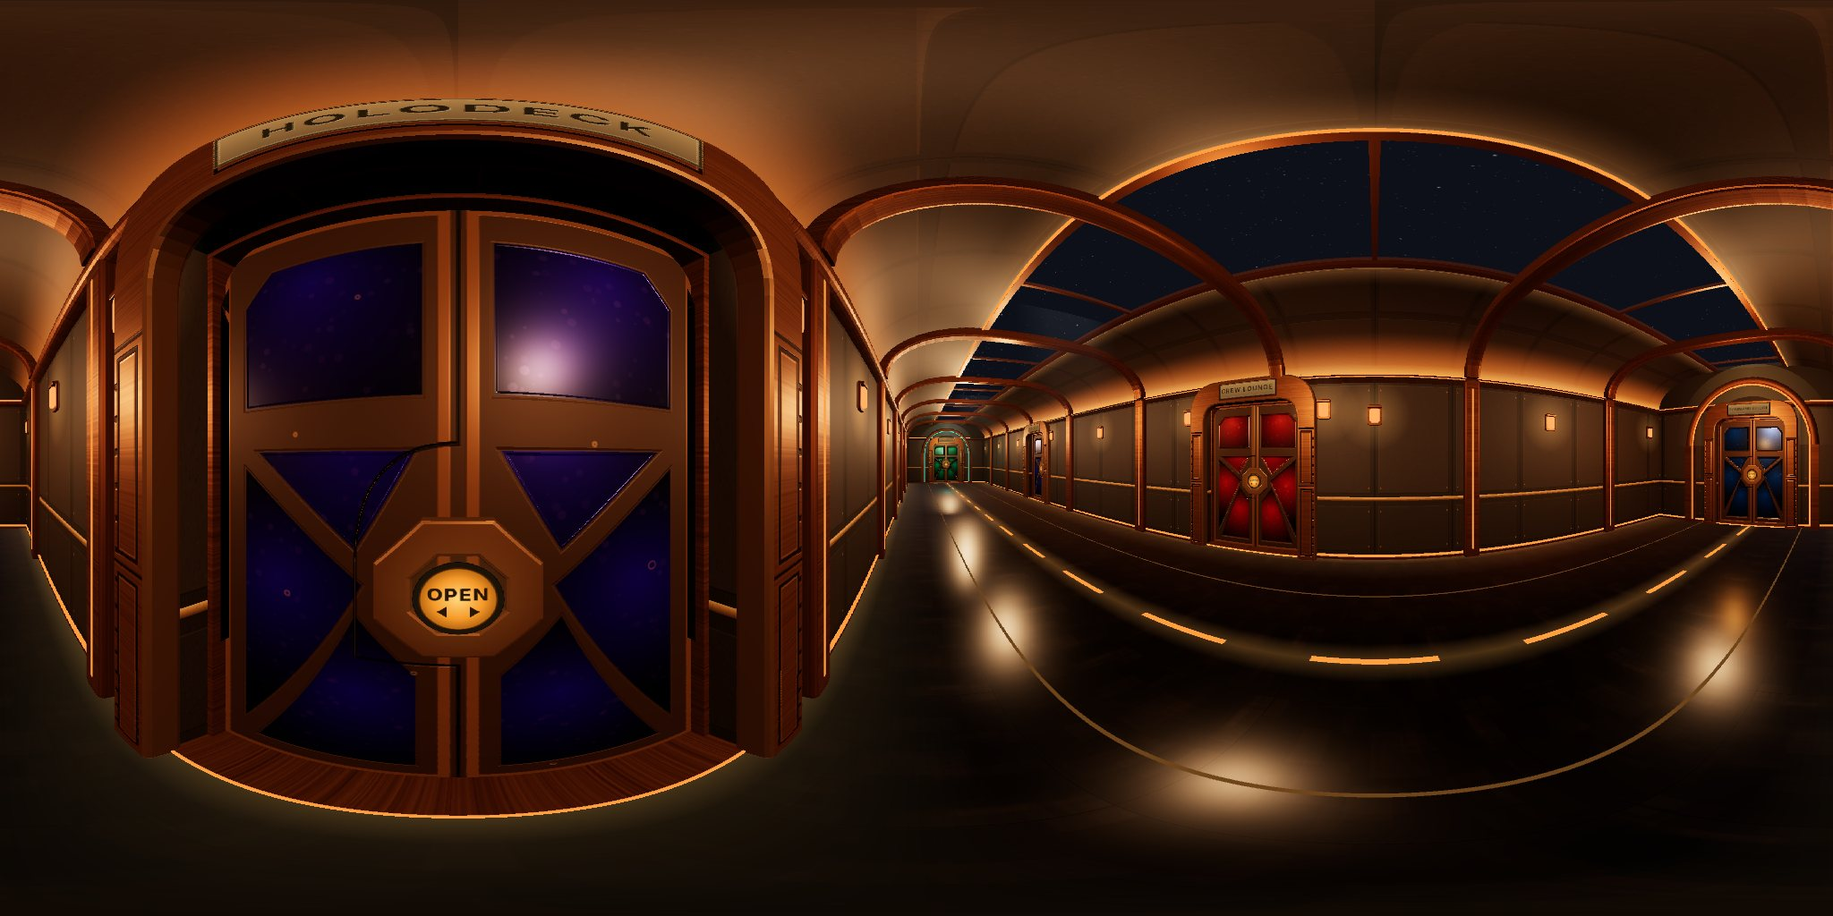
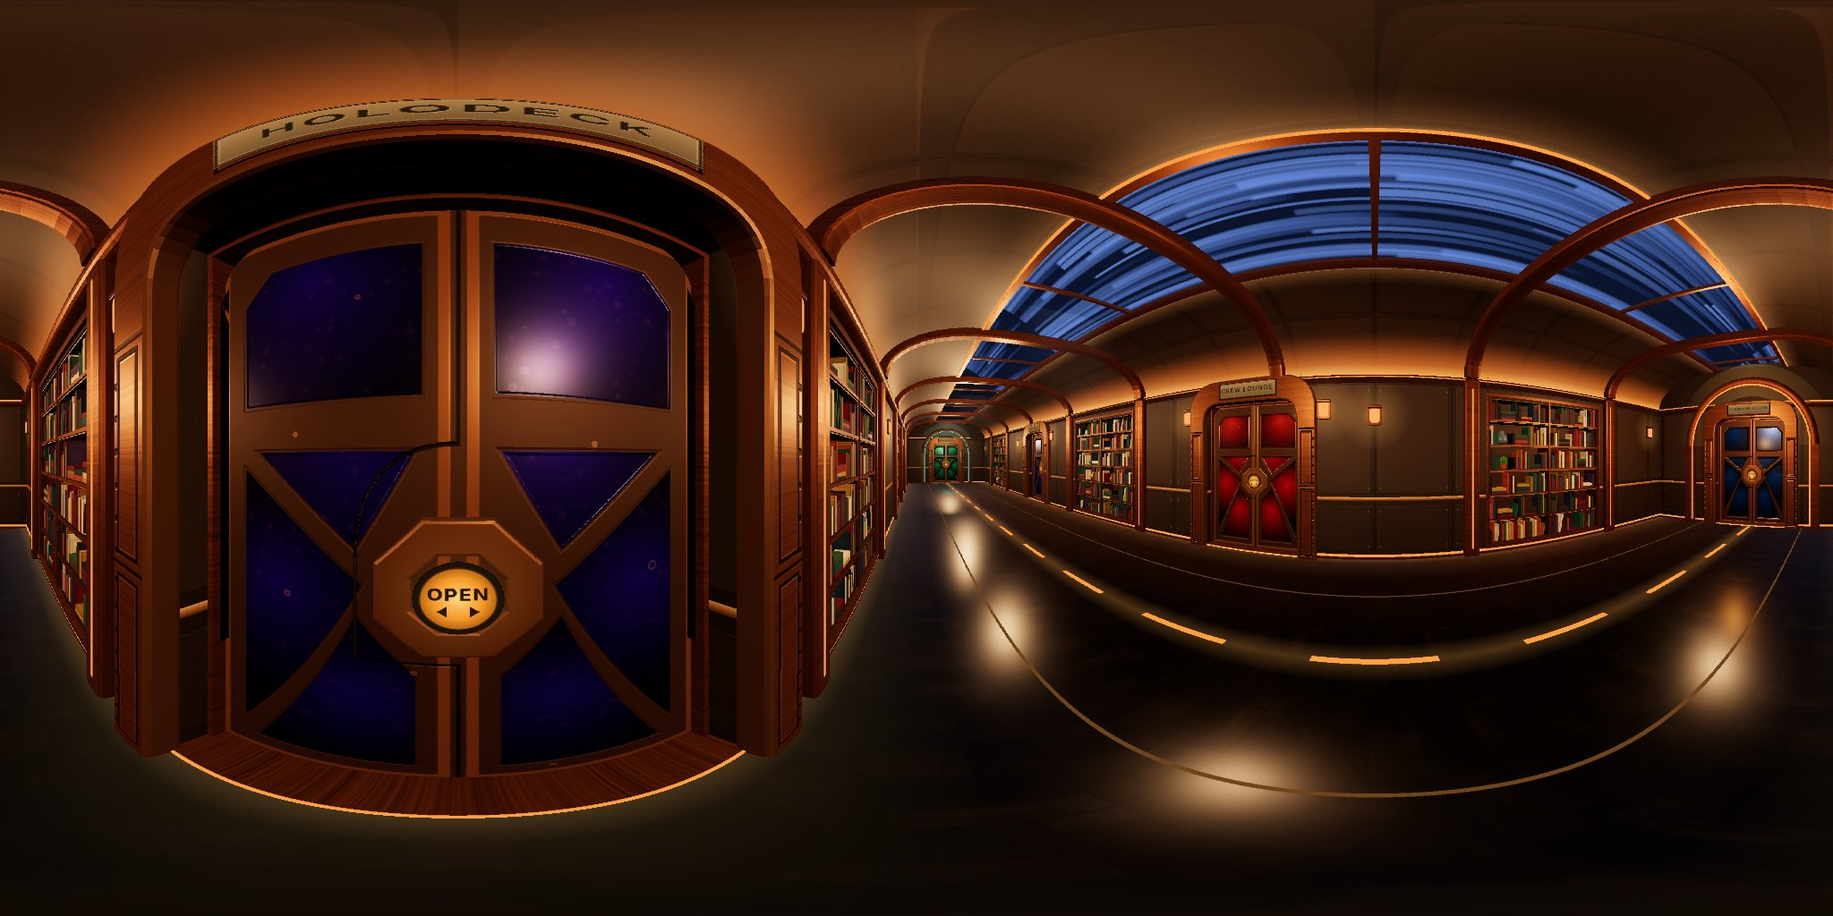
Corridor: light-speed streaks through the skylight; seven recessed lit bookcases full of books
Claude-Session: https://claude.ai/code/session_015swmRW9rk9HZt8JyLRwsXT

diff --git a/index.html b/index.html
@@ -144,6 +144,11 @@
     var ALONG = { L: -1, R: 1, F: -1, B: 1 };               // door-group local +x expressed along world z (side walls) / x (end walls)
     var DEFAULT_SPAWN = { x: 0, z: 9, yaw: 0 };         // Home Screen launch: the usual view down the hall
 
+    // built-in bookshelves, recessed into the wall between ribs (user, Nov 24: reference was a hallway with inset shelves)
+    var SHELVES = [{ W: 'L', c: -9 }, { W: 'L', c: -3 }, { W: 'L', c: 3 }, { W: 'L', c: 9 }, { W: 'R', c: -9 }, { W: 'R', c: 0 }, { W: 'R', c: 9 }];
+    var SH_W = 2.4, SH_Y0 = 0.14, SH_Y1 = 2.62, SH_D = 0.38;
+    function shelfAt(Wk, z, pad) { return SHELVES.some(function (q) { return q.W === Wk && Math.abs(z - q.c) < SH_W / 2 + pad; }); }
+
     // stretches of each side wall that a door, its button or its frame occupies: ribs and sconces keep clear
     function busy(Wk, z, pad) {
       return DOORS.some(function (d) {
@@ -231,7 +236,7 @@
     }
 
     // ───────────────────────────── geometry collector (world-aligned boxes, world-space UVs) ─────────────────────────────
-    var TILE = { wall: [1.2, H], trim: [1, 1], dark: [1, 1], amber: [1, 1], lamp: [1, 1] };
+    var TILE = { wall: [1.2, H], trim: [1, 1], dark: [1, 1], amber: [1, 1], lamp: [1, 1], wood: [1, 1] };
     var buckets = {};
     function bx(key, cx, cy, cz, w, h, d) {
       var g = new THREE.BoxGeometry(w, h, d); g.translate(cx, cy, cz);
@@ -267,12 +272,98 @@
       ops.forEach(function (o) {
         var a0 = o.c - o.w / 2, a1 = o.c + o.w / 2;
         if (a0 > cur) solid(cur, a0);
-        wb('wall', W, 0, T, DOOR_H, H, a0, a1);
+        if (o.type === 'shelf') {
+          wb('wall', W, 0, T, SH_Y1, H, a0, a1); wb('wall', W, 0, T, 0, SH_Y0, a0, a1);
+          wb('amber', W, -0.025, 0.03, 0.05, 0.085, a0, a1); wb('trim', W, -0.02, 0.03, 0, 0.05, a0, a1);
+          shelfUnit(Wk, W, a0, a1);
+        } else wb('wall', W, 0, T, DOOR_H, H, a0, a1);
         cur = a1;
       });
       if (hi > cur) solid(cur, hi);
       wb('amber', W, -0.06, 0.06, 2.86, 2.9, lo, hi);                      // cove light line on top of the ledge
     }
+    // ── a recessed bookcase: walnut carcass, bronze lip, two columns × six shelves, amber strip under every shelf ──
+    var books = [], bookCol = [], decor = [];
+    var BOOK_COLS = ['#6b1e1e', '#7a2a1a', '#1f3350', '#24405e', '#2d4a2f', '#3c5a36', '#b08a3e', '#8c6a2a', '#e2d6bc', '#cbbd9a', '#1c1c1e', '#3a2a22', '#1f5a5a', '#5a2e4a', '#9a4a24', '#4a3a6a'];
+    function shelfUnit(Wk, W, a0, a1) {
+      var r = rng(Math.round((a0 + 20) * 97) + (Wk === 'L' ? 1 : 7)), mid = (a0 + a1) / 2, rows = 6, pitch = (SH_Y1 - SH_Y0) / rows;
+      wb('wood', W, SH_D, T - SH_D, SH_Y0, SH_Y1, a0, a1);                                  // back panel
+      wb('wood', W, 0, SH_D, SH_Y0, SH_Y1, a0, a0 + 0.025); wb('wood', W, 0, SH_D, SH_Y0, SH_Y1, a1 - 0.025, a1);   // sides
+      wb('wood', W, 0, SH_D, SH_Y1 - 0.03, SH_Y1, a0, a1);                                   // top
+      wb('wood', W, 0.01, SH_D - 0.01, SH_Y0, SH_Y1, mid - 0.016, mid + 0.016);             // centre upright
+      wb('trim', W, -0.035, 0.045, SH_Y0 - 0.05, SH_Y0, a0 - 0.05, a1 + 0.05); wb('trim', W, -0.035, 0.045, SH_Y1, SH_Y1 + 0.05, a0 - 0.05, a1 + 0.05);   // bronze lip
+      wb('trim', W, -0.035, 0.045, SH_Y0 - 0.05, SH_Y1 + 0.05, a0 - 0.05, a0); wb('trim', W, -0.035, 0.045, SH_Y0 - 0.05, SH_Y1 + 0.05, a1, a1 + 0.05);
+      wb('trim', W, -0.012, 0.012, SH_Y0, SH_Y1, mid - 0.02, mid + 0.02);
+      for (var k = 0; k < rows; k++) {
+        var y = SH_Y0 + k * pitch;
+        wb('wood', W, 0.005, SH_D - 0.005, y, y + 0.03, a0, a1);                              // shelf board
+        wb('trim', W, -0.004, 0.01, y, y + 0.03, a0 + 0.025, a1 - 0.025);                     // brass nosing
+        if (k > 0) wb('amber', W, 0.012, 0.006, y - 0.008, y - 0.003, a0 + 0.04, a1 - 0.04);  // strip light under the shelf above
+        [[a0 + 0.035, mid - 0.025], [mid + 0.025, a1 - 0.035]].forEach(function (seg) { fillRow(Wk, seg[0], seg[1], y + 0.03, pitch - 0.05, r); });
+      }
+      wb('amber', W, 0.012, 0.006, SH_Y1 - 0.038, SH_Y1 - 0.033, a0 + 0.04, a1 - 0.04);
+    }
+    function fillRow(Wk, x0, x1, y, room, r) {
+      var x = x0, decorDone = r() < 0.45 ? 0 : 1;
+      while (x < x1 - 0.03) {
+        if (!decorDone && r() < 0.12 && x1 - x > 0.4) {                    // an ornament between the books
+          var kind = Math.floor(r() * 4), w = 0.26;
+          decor.push({ Wk: Wk, a: x + w / 2, y: y, kind: kind, h: Math.min(room - 0.02, 0.18 + r() * 0.12), r: r() });
+          x += w; decorDone = 1; continue;
+        }
+        if (r() < 0.08 && x1 - x > 0.3) {                                  // a short stack lying flat
+          var n = 2 + Math.floor(r() * 3), bw = 0.22 + r() * 0.06, yy = y;
+          for (var j = 0; j < n; j++) { var th = 0.03 + r() * 0.025; books.push({ Wk: Wk, a: x + bw / 2, y: yy + th / 2, t: bw, h: th, d: 0.15 + r() * 0.06, lean: 0, flat: 1 }); bookCol.push(BOOK_COLS[Math.floor(r() * BOOK_COLS.length)]); yy += th; }
+          x += bw + 0.01; continue;
+        }
+        var t = 0.022 + r() * 0.035, h = Math.min(room - 0.01, 0.2 + r() * 0.16);
+        if (x + t > x1) break;
+        var lean = 0;
+        if (r() < 0.05 && x1 - x > 0.12) { lean = 0.22; x += 0.05; }       // the odd book leaning on its neighbour
+        books.push({ Wk: Wk, a: x + t / 2, y: y + h / 2, t: t, h: h, d: 0.16 + r() * 0.08, lean: lean, flat: 0 }); bookCol.push(BOOK_COLS[Math.floor(r() * BOOK_COLS.length)]);
+        x += t + (r() < 0.1 ? 0.01 : 0.002);
+      }
+    }
+    function spineTexture() {               // light spine with gilt bands; tinted per book by instance colour
+      var c = cv(64, 256), x = c.getContext('2d'), r = rng(5);
+      x.fillStyle = '#d8d0c4'; x.fillRect(0, 0, 64, 256);
+      for (var i = 0; i < 1500; i++) { x.fillStyle = 'rgba(0,0,0,' + r() * 0.08 + ')'; x.fillRect(r() * 64, r() * 256, 1, 2); }
+      x.fillStyle = '#fff4d8'; [[18, 5], [28, 2], [214, 2], [222, 5]].forEach(function (b) { x.fillRect(0, b[0], 64, b[1]); });
+      x.fillStyle = 'rgba(255,240,210,0.7)'; x.fillRect(16, 70, 32, 70);
+      x.fillStyle = 'rgba(0,0,0,0.25)'; x.fillRect(0, 0, 4, 256); x.fillRect(60, 0, 4, 256);
+      var t = new THREE.CanvasTexture(c); t.colorSpace = THREE.SRGBColorSpace; return t;
+    }
+    function woodTexture() {
+      var c = cv(256, 256), x = c.getContext('2d'), r = rng(13);
+      x.fillStyle = '#3a2516'; x.fillRect(0, 0, 256, 256);
+      for (var i = 0; i < 160; i++) { var y = r() * 256; x.strokeStyle = r() < 0.5 ? 'rgba(20,10,4,0.35)' : 'rgba(120,70,36,0.25)'; x.lineWidth = 1 + r() * 2; x.beginPath(); x.moveTo(0, y); for (var u = 0; u <= 256; u += 32) x.lineTo(u, y + Math.sin(u * 0.03 + i) * 3); x.stroke(); }
+      return mkTex(c);
+    }
+    function buildBooks(root) {
+      if (!books.length) return;
+      var g = new THREE.BoxGeometry(1, 1, 1), m = new THREE.MeshStandardMaterial({ map: spineTexture(), roughness: 0.75, metalness: 0.05 });
+      var im = new THREE.InstancedMesh(g, m, books.length), M4 = new THREE.Matrix4(), q = new THREE.Quaternion(), S = new THREE.Vector3(), P = new THREE.Vector3(), E = new THREE.Euler(), col = new THREE.Color();
+      books.forEach(function (b, i) {
+        var mw = wallMatrix(b.Wk, b.a, b.y, -(0.03 + b.d / 2));
+        E.set(0, 0, b.flat ? 0 : -b.lean); q.setFromEuler(E);
+        var local = new THREE.Matrix4().compose(P.set(0, 0, 0), q, S.set(b.t, b.h, b.d));
+        M4.multiplyMatrices(mw, local); im.setMatrixAt(i, M4); im.setColorAt(i, col.set(bookCol[i]));
+      });
+      im.instanceMatrix.needsUpdate = true; if (im.instanceColor) im.instanceColor.needsUpdate = true; root.add(im);
+      // ornaments: vases, framed pictures, potted plants, a brass globe
+      var vaseM = new THREE.MeshStandardMaterial({ color: 0x5a6a6e, roughness: 0.35, metalness: 0.2 }), brass = new THREE.MeshStandardMaterial({ color: 0xb8894a, roughness: 0.35, metalness: 0.85 });
+      var leaf = new THREE.MeshStandardMaterial({ color: 0x3f6b2e, roughness: 0.8 }), pot = new THREE.MeshStandardMaterial({ color: 0x8a4a2a, roughness: 0.8 });
+      var pic = new THREE.MeshBasicMaterial({ color: 0xc8b48c }), frameM = new THREE.MeshStandardMaterial({ color: 0x4a2e18, roughness: 0.6 });
+      var vaseG = new THREE.LatheGeometry([[0, 0], [0.05, 0.005], [0.075, 0.05], [0.07, 0.1], [0.035, 0.15], [0.03, 0.18], [0.04, 0.19]].map(function (p) { return new THREE.Vector2(p[0], p[1]); }), 16);
+      decor.forEach(function (d) {
+        var g2 = new THREE.Group(); g2.applyMatrix4(wallMatrix(d.Wk, d.a, d.y, -0.18)); root.add(g2);
+        if (d.kind === 0) { var v = new THREE.Mesh(vaseG, d.r < 0.5 ? vaseM : brass); v.scale.setScalar(d.h / 0.19); g2.add(v); }
+        else if (d.kind === 1) { var f = new THREE.Mesh(new THREE.BoxGeometry(0.2, 0.16, 0.015), frameM); f.position.set(0, 0.085, 0.06); f.rotation.x = -0.18; g2.add(f); var pp = new THREE.Mesh(new THREE.PlaneGeometry(0.16, 0.12), pic); pp.position.set(0, 0.002, 0.0085); f.add(pp); }
+        else if (d.kind === 2) { var po = new THREE.Mesh(new THREE.CylinderGeometry(0.06, 0.045, 0.09, 12), pot); po.position.y = 0.045; g2.add(po); for (var j = 0; j < 7; j++) { var lf = new THREE.Mesh(new THREE.SphereGeometry(0.045, 6, 4), leaf); lf.scale.set(0.6, 1.4, 0.6); lf.position.set(Math.cos(j) * 0.04, 0.12 + (j % 3) * 0.025, Math.sin(j) * 0.04); lf.rotation.z = Math.cos(j * 2) * 0.5; g2.add(lf); } }
+        else { var st = new THREE.Mesh(new THREE.CylinderGeometry(0.035, 0.05, 0.03, 12), brass); st.position.y = 0.015; g2.add(st); var gl = new THREE.Mesh(new THREE.SphereGeometry(0.075, 16, 10), new THREE.MeshStandardMaterial({ color: 0x2f5a6a, roughness: 0.5 })); gl.position.y = 0.11; g2.add(gl); var rg = new THREE.Mesh(new THREE.TorusGeometry(0.085, 0.006, 6, 24), brass); rg.position.y = 0.11; rg.rotation.x = 0.4; g2.add(rg); }
+      });
+    }
+
     function doorFrame(W, o) {
       var a0 = o.c - o.w / 2, a1 = o.c + o.w / 2;
       wb('trim', W, 0.14, 0.36, 0, DOOR_H, a0, a0 + 0.03); wb('trim', W, 0.14, 0.36, 0, DOOR_H, a1 - 0.03, a1);
@@ -320,15 +411,17 @@
         trim:  new THREE.MeshStandardMaterial({ map: trimTexture(), color: 0xd8b58a, roughness: 0.45, metalness: 0.8, emissive: 0x1a0e04, emissiveIntensity: 0.5 }),
         dark:  new THREE.MeshStandardMaterial({ color: 0x1c1612, roughness: 0.9, metalness: 0.1, emissive: 0x140d07, emissiveIntensity: 0.6 }),
         amber: new THREE.MeshBasicMaterial({ color: 0xffa040, fog: false, toneMapped: false }),
-        lamp:  new THREE.MeshBasicMaterial({ color: 0xffb468, fog: false, toneMapped: false })
+        lamp:  new THREE.MeshBasicMaterial({ color: 0xffb468, fog: false, toneMapped: false }),
+        wood:  new THREE.MeshStandardMaterial({ map: woodTexture(), roughness: 0.6, metalness: 0.05, color: 0xc8a888, emissive: 0x1a0c04, emissiveIntensity: 0.6 })
       };
       [M.wall.map, M.trim.map].forEach(function (t) { t.anisotropy = aniso; });
 
       // walls, frames
       var ops = { L: [], R: [], F: [], B: [] };
       DOORS.forEach(function (d) { ops[d.W].push({ c: d.c, w: DOOR_W }); });
-      buildWall(WALLS.L, ops.L, -12.5, 12.5); buildWall(WALLS.R, ops.R, -12.5, 12.5);
-      buildWall(WALLS.F, ops.F, -2.5, 2.5);   buildWall(WALLS.B, ops.B, -2.5, 2.5);
+      SHELVES.forEach(function (q) { ops[q.W].push({ c: q.c, w: SH_W, type: 'shelf' }); });
+      buildWall(WALLS.L, ops.L, -12.5, 12.5, 'L'); buildWall(WALLS.R, ops.R, -12.5, 12.5, 'R');
+      buildWall(WALLS.F, ops.F, -2.5, 2.5, 'F');   buildWall(WALLS.B, ops.B, -2.5, 2.5, 'B');
       DOORS.forEach(function (d) { doorFrame(WALLS[d.W], { c: d.c, w: DOOR_W }); });
 
       // rib legs (wall pilasters) where the wall is clear; the arches themselves are built below
@@ -339,7 +432,7 @@
       }); });
 
       // sconces: between ribs, at the clear spots; and a pair flanking every side door, as in the reference
-      ['L', 'R'].forEach(function (k) { for (var z = -12; z <= 12; z += 3) if (!busy(k, z, 0.3)) { sconce(k, z, 2.25); glowSpots.push([k, z, 2.25]); } });
+      ['L', 'R'].forEach(function (k) { for (var z = -12; z <= 12; z += 3) if (!busy(k, z, 0.3) && !shelfAt(k, z, 0.2)) { sconce(k, z, 2.25); glowSpots.push([k, z, 2.25]); } });
       DOORS.forEach(function (d) { if (d.end) return; [-1.23, 1.23].forEach(function (o) { sconce(d.W, d.c + o, 2.35); glowSpots.push([d.W, d.c + o, 2.35]); }); });
 
       // cornice: a moulded quarter-round ledge under the cove light, run the length of every wall
@@ -368,7 +461,7 @@
       [10.5, 5, 0, -5, -10.5].forEach(function (zl) { var l = new THREE.PointLight(0xffc690, 1.35, 9, 1.4); l.position.set(0, 2.7, zl); root.add(l); });
       DOORS.forEach(function (d) { if (!d.end) return; var l = new THREE.PointLight(d.glow, 0.9, 6, 2); l.position.set(0, 2.0, WALLS[d.W].s * 11.4); root.add(l); });
 
-      buildDoors(root); buildSky(root);
+      buildBooks(root); buildDoors(root); buildSky(root);
       bakeReflections(root, M);
     }
 
@@ -486,23 +579,47 @@
     }
 
     // ───────────────────────────── stars (seen through the skylight) ─────────────────────────────
+    // ── light speed overhead: star streaks rushing aft (the ship flies toward the Bridge, +Z) over a scrolling tunnel ──
     function buildSky(root) {
-      var PR = Math.min(2, window.devicePixelRatio || 1), R = 900, r = rng(77), dot = dotTexture();
-      function starSet(n, size, colFn, op, band) {
-        var pos = new Float32Array(n * 3), col = new Float32Array(n * 3);
-        for (var i = 0; i < n; i++) {
-          var y = 0.15 + r() * 0.85, ph = r() * 6.2832;
-          if (band) { ph = (r() - 0.5) * 0.5 + (r() < 0.5 ? 1.5708 : -1.5708); y = 0.2 + r() * 0.8; }      // a denser band running along the hall
-          var rr = Math.sqrt(1 - y * y), c = colFn(); pos[i * 3] = R * rr * Math.cos(ph); pos[i * 3 + 1] = R * y; pos[i * 3 + 2] = R * rr * Math.sin(ph); col[i * 3] = c[0]; col[i * 3 + 1] = c[1]; col[i * 3 + 2] = c[2];
-        }
-        var g = new THREE.BufferGeometry(); g.setAttribute('position', new THREE.BufferAttribute(pos, 3)); g.setAttribute('color', new THREE.BufferAttribute(col, 3));
-        var p = new THREE.Points(g, new THREE.PointsMaterial({ map: dot, alphaTest: 0.01, size: size * PR * 1.8, sizeAttenuation: false, vertexColors: true, fog: false, toneMapped: false, transparent: true, opacity: op, depthWrite: false }));
-        p.frustumCulled = false; p.renderOrder = -10; root.add(p);
+      var r = rng(77), N = MOB ? 900 : 1600, SPAN = 700;
+      var base = new Float32Array(N * 4 * 3), corner = new Float32Array(N * 4 * 2), info = new Float32Array(N * 4 * 3), col = new Float32Array(N * 4 * 3), idx = [];
+      for (var i = 0; i < N; i++) {
+        var y = 6 + Math.pow(r(), 1.6) * 160, spread = 12 + y * 1.1, x = (r() * 2 - 1) * spread, z = (r() - 0.5) * SPAN;
+        var len = 30 + r() * 160, wid = 0.15 + r() * 0.25 + y * 0.012, spd = 260 + r() * 340, hue = r();
+        var c = hue < 0.7 ? [0.75, 0.85, 1.0] : hue < 0.9 ? [1, 1, 1] : [0.55, 0.7, 1.0], br = 0.5 + r() * 0.8;
+        [[0, -1], [0, 1], [1, -1], [1, 1]].forEach(function (k, j) {
+          var o = i * 4 + j; base.set([x, y, z], o * 3); corner.set(k, o * 2); info.set([len, wid, spd], o * 3); col.set([c[0] * br, c[1] * br, c[2] * br], o * 3);
+        });
+        var q = i * 4; idx.push(q, q + 2, q + 1, q + 1, q + 2, q + 3);
       }
-      starSet(MOB ? 1600 : 3000, 1.0, function () { var b = 0.3 + r() * 0.45; return [b, b * 0.94, b * 1.08]; }, 0.95);
-      starSet(MOB ? 1200 : 2200, 0.9, function () { var b = 0.25 + r() * 0.35; return [b * 0.95, b * 0.9, b * 1.1]; }, 0.9, true);
-      starSet(MOB ? 200 : 380, 1.6, function () { var b = 0.6 + r() * 0.3; return [b * 0.9, b * 0.94, b]; }, 0.95);
-      starSet(MOB ? 14 : 24, 3.0, function () { return [0.72, 0.84, 1]; }, 1); starSet(MOB ? 9 : 16, 2.8, function () { return [1, 0.8, 0.55]; }, 1);
+      var g = new THREE.BufferGeometry();
+      g.setAttribute('position', new THREE.BufferAttribute(base, 3)); g.setAttribute('aCorner', new THREE.BufferAttribute(corner, 2));
+      g.setAttribute('aInfo', new THREE.BufferAttribute(info, 3)); g.setAttribute('aCol', new THREE.BufferAttribute(col, 3)); g.setIndex(idx);
+      var sm = new THREE.ShaderMaterial({ uniforms: { uT: { value: 0 }, uSpan: { value: SPAN } }, transparent: true, depthWrite: false, blending: THREE.AdditiveBlending, fog: false, toneMapped: false,
+        vertexShader: [
+          'attribute vec2 aCorner; attribute vec3 aInfo, aCol; uniform float uT, uSpan; varying vec2 vC; varying vec3 vCol;',
+          'void main(){ vec3 b = position; b.z = mod(b.z - uT * aInfo.z + uSpan * 0.5, uSpan) - uSpan * 0.5;',
+          ' vec3 wb = (modelMatrix * vec4(b, 1.0)).xyz; vec3 side = normalize(cross(vec3(0.0, 0.0, 1.0), cameraPosition - wb));',
+          ' vec3 p = wb + vec3(0.0, 0.0, aCorner.x * aInfo.x) + side * aCorner.y * aInfo.y;',
+          ' vC = aCorner; vCol = aCol; gl_Position = projectionMatrix * viewMatrix * vec4(p, 1.0); }'].join('\n'),
+        fragmentShader: 'varying vec2 vC; varying vec3 vCol; void main(){ float a = pow(1.0 - vC.x, 2.2) * (1.0 - vC.y * vC.y); a += smoothstep(0.06, 0.0, vC.x) * 1.5 * (1.0 - abs(vC.y)); gl_FragColor = vec4(vCol * a, 1.0); }' });
+      var streaks = new THREE.Mesh(g, sm); streaks.frustumCulled = false; streaks.renderOrder = -9; root.add(streaks);
+
+      // the tunnel: faint streaked walls far overhead, scrolling aft
+      var c = cv(512, 512), x = c.getContext('2d'); x.fillStyle = '#000'; x.fillRect(0, 0, 512, 512);
+      for (var k = 0; k < 420; k++) {
+        var u = r() * 512, v = r() * 512, L = 60 + r() * 380, a = 0.12 + r() * 0.5, gr = x.createLinearGradient(0, v, 0, v + L);
+        gr.addColorStop(0, 'rgba(120,160,255,0)'); gr.addColorStop(1, 'rgba(180,210,255,' + a + ')');
+        var wpx = 1.5 + r() * 4.5; x.fillStyle = gr; x.fillRect(u, v, wpx, L);   // bright end leads (aft-moving)
+        if (v + L > 512) x.fillRect(u, v - 512, wpx, L);
+      }
+      var tt = new THREE.CanvasTexture(c); tt.wrapS = tt.wrapT = THREE.RepeatWrapping; tt.repeat.set(3, 1.5);
+      var tun = new THREE.Mesh(new THREE.CylinderGeometry(260, 260, 1400, 48, 1, true), new THREE.MeshBasicMaterial({ map: tt, color: 0x9fc0ff, transparent: true, opacity: 0.85, blending: THREE.AdditiveBlending, depthWrite: false, side: THREE.BackSide, fog: false, toneMapped: false }));
+      tun.rotation.x = Math.PI / 2; tun.renderOrder = -10; root.add(tun);
+      // a faint blue haze so the dark between streaks reads as a tunnel, not empty space
+      var haze = new THREE.Mesh(new THREE.CylinderGeometry(250, 250, 1400, 32, 1, true), new THREE.MeshBasicMaterial({ color: 0x0a1630, side: THREE.BackSide, fog: false, depthWrite: false }));
+      haze.rotation.x = Math.PI / 2; haze.renderOrder = -11; root.add(haze);
+      state.hyper = { mat: sm, tex: tt };
     }
 
     // ───────────────────────────── per-frame: door animation, collision, entry ─────────────────────────────
@@ -517,6 +634,7 @@
         // blink nav lights
         state.hullLights.forEach(function (l, i) { l.visible = ((t / 1000 + i * 0.7) % 2) < 0.2; });
         // light shafts fade out as you walk into them (seen from inside they'd be a flat smear)
+        if (state.hyper) { state.hyper.mat.uniforms.uT.value = t / 1000; state.hyper.tex.offset.y = (t / 1000 * 0.9) % 1; }
         if (state.shafts) state.shafts.forEach(function (m) { var d = Math.abs(p.z - m.position.z); m.material.opacity = 0.075 * Math.max(0, Math.min(1, (d - 1.2) / 2.5)); m.visible = m.material.opacity > 0.001; });
         // doors (shared door.js: animation, auto-close, portal); the corridor keeps its own walls and doorway lanes
         var lim = { xm: 2.15, xp: 2.15, zm: 12.15, zp: 12.15 };

diff --git a/tools/capture-portals.js b/tools/capture-portals.js
@@ -24,7 +24,7 @@ const ROOMS = (process.env.ONLY || 'bridge,library,holodeck,lounge,media').split
     console.log('  wrote', file);
   }
   fs.mkdirSync(OUT, { recursive: true });
-  for (const id of ROOMS) {
+  for (const id of (process.env.SKIP_ROOMS ? [] : ROOMS)) {   // SKIP_ROOMS=1: only the corridor changed
     const P = await page(id + '.html?capture=1');
     await save(P, `window.WAYFARER.door.PORTALS.${id}.room`, `room-${id}.jpg`); await P.close();
   }

diff --git a/CLAUDE.md b/CLAUDE.md
@@ -33,7 +33,9 @@ Rules drawn from them:
   dark walnut-brown/charcoal wall panels; polished dark reflective floors; small square amber sconces.
 - **Colour:** amber is the default light. Teal = Library electrogel / dome. Blue-purple = holograms only
   (Holodeck galaxy, Bridge orb). Nothing grey or white-lit (the pre-Nov-2026 rooms were grey; that look is retired).
-- **Lived-in:** plants, bookshelves, brass fittings in rooms (not the corridor).
+- **Lived-in:** plants, bookshelves, brass fittings — in rooms AND the corridor (user, Nov 24: inset bookshelves in the hall).
+- **Outside the ship = light speed** (user, Nov 24): star streaks rushing aft over a streaked blue tunnel, not a static
+  starfield. Ship flies toward the Bridge (+Z), so streaks move toward −Z. Any window/viewport should show the same.
 - **Fidelity:** the images are paintings. Match layout, palette, light mood and silhouettes; fake glow/gloss with
   emissive strips, additive gradient planes and a one-off PMREM reflection bake. No post-processing bloom (phone cost).
 
@@ -67,7 +69,10 @@ Rules drawn from them:
   curved amber-lit cove ceiling, full-length glass skylight with stars and faint light shafts (no side windows —
   user decision), polished deck with dashed amber centre line and glowing edges, square amber sconces
   (pairs flank each side door), glowing arch portals at the ends (amber = Bridge, teal = Library).
-  One-step-outside-the-door spawn when returning from a room. Default spawn faces the Bridge (user is fine with it).
+  One-step-outside-the-door spawn when returning from a room.
+  SKYLIGHT shows light speed (`buildSky`: animated streak quads + scrolling tunnel texture). SEVEN recessed walnut
+  bookcases between ribs (`SHELVES` table; 2 columns × 6 lit shelves; ~instanced books with gilt spines, leaning/stacked
+  books, vases, frames, plants, globes). Default spawn faces the Bridge (user is fine with it).
   DOORS (user design, Nov 24): double doors modelled on a sci-fi double door photo the user sent (not saved
   in the repo) — moulded arched bronze frame with jamb blocks and side ribs; ONE nameplate per door, on the frame
   header; each leaf has a top light + X-braces to a centre octagon hub, glass tinted per room (`tint` in DOORS).
@@ -98,7 +103,7 @@ Rules drawn from them:
 - **Icons** — frameless ship icon (from `reference/app-icon-source.jpg`) at 180/192/512 + favicon; share image.
 
 ## What's next (agreed order: restyle room by room to the reference)
-1. Command Bridge restyle (circular, amber ceiling ring, panoramic window, orb pedestal)
+1. Command Bridge restyle (circular, amber ceiling ring, panoramic window showing LIGHT SPEED, orb pedestal)
 2. Holodeck restyle (bronze console + 3 buttons; SIM LIBRARY is a candidate home for the blueprint planner)
 3. Media Nexus hybrid rebuild — needs YouTube API key from the user (a key in a Pages site is public:
    restrict it to the Pages domain in Google Cloud)
